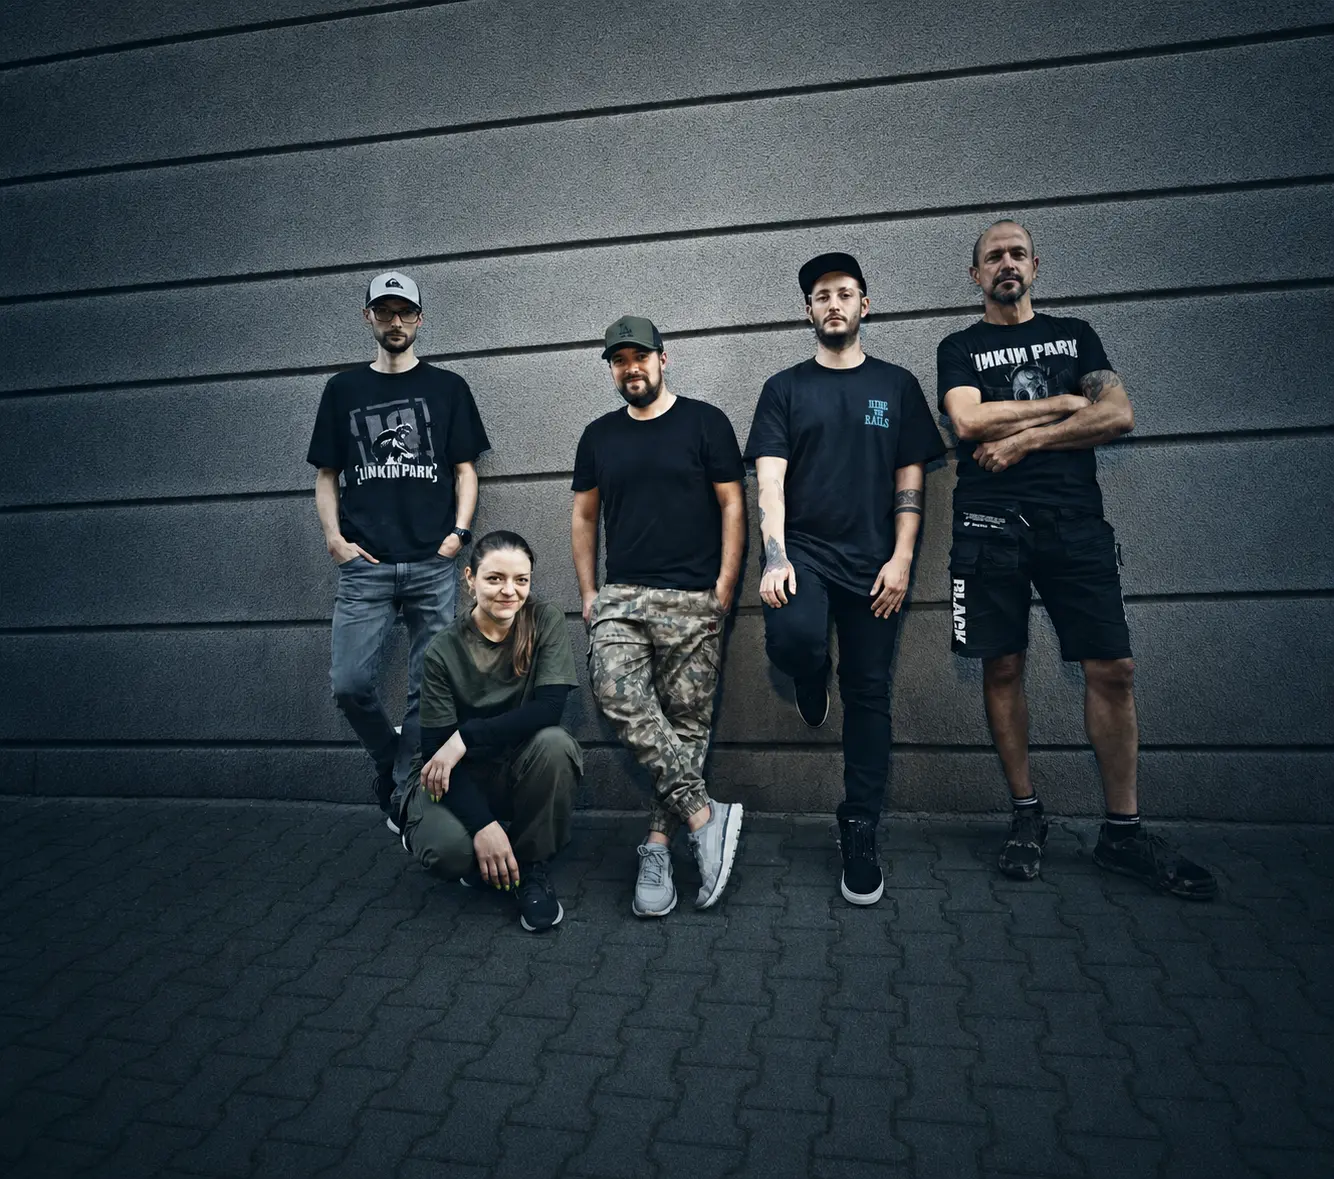
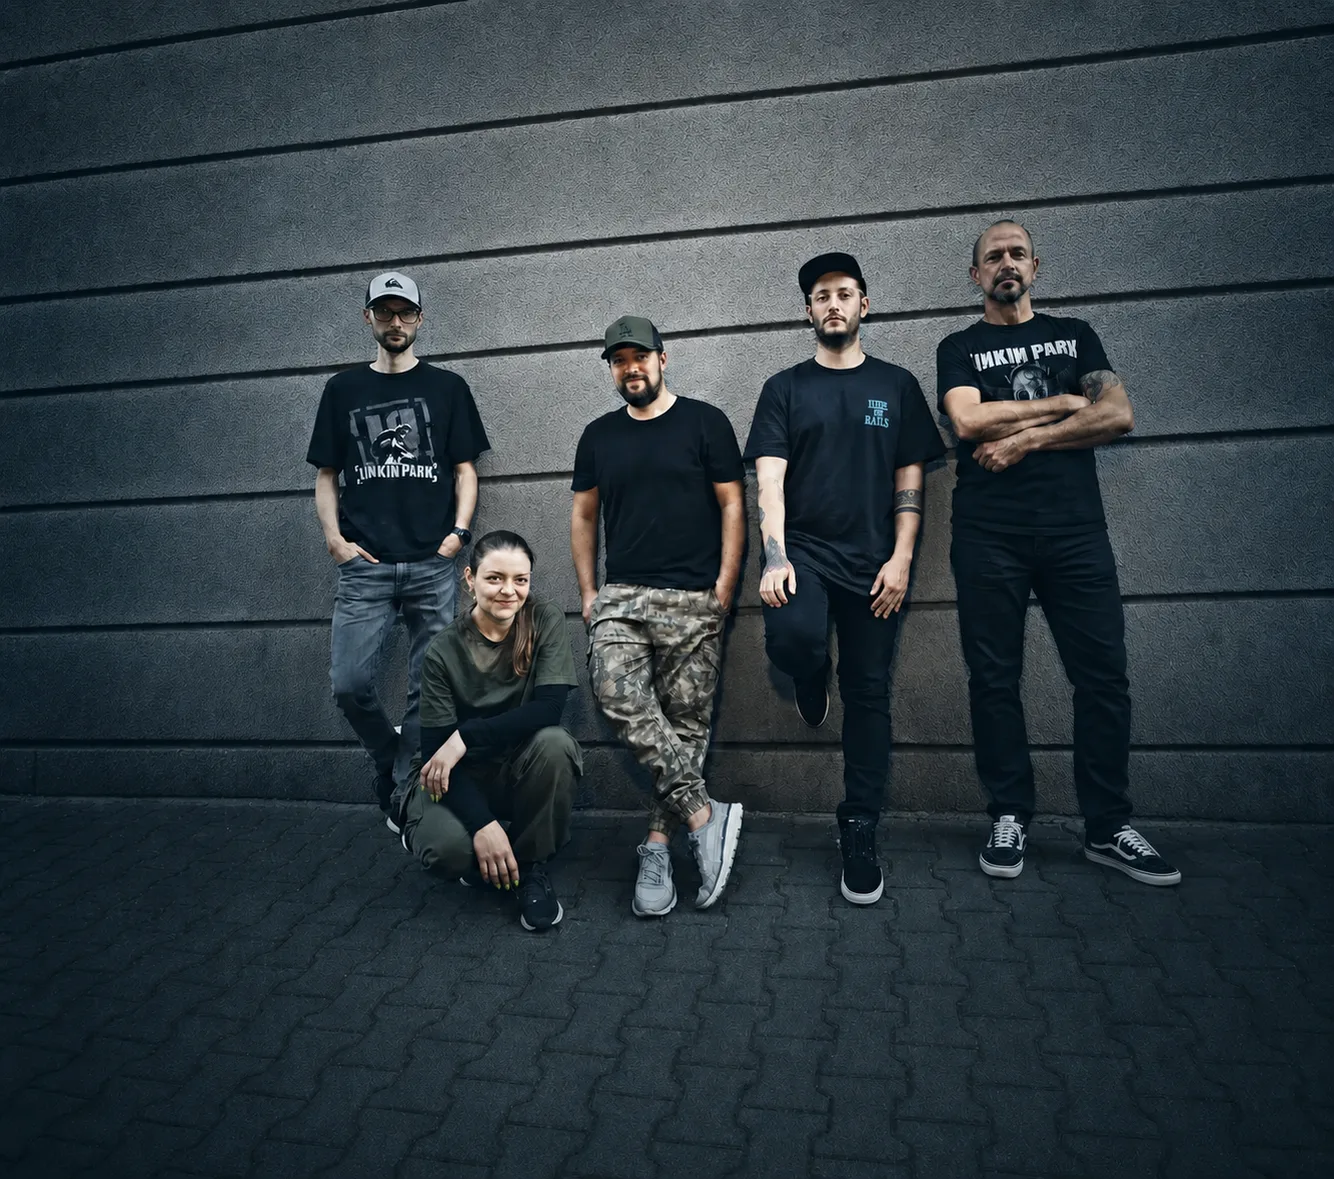
Hero: podmiana zdjęcia (Wojtek w spodniach zamiast krótkich) + cache-bust

diff --git a/index.html b/index.html
@@ -30,7 +30,7 @@
   <link rel="apple-touch-icon" sizes="180x180" href="/assets/img/favicon-180.png" />
   <link rel="preconnect" href="https://fonts.googleapis.com" />
   <link rel="preconnect" href="https://fonts.gstatic.com" crossorigin />
-  <link rel="preload" as="image" href="/assets/img/bg-hero-2.webp" type="image/webp" fetchpriority="high" />
+  <link rel="preload" as="image" href="/assets/img/bg-hero-2.webp?v=20260819" type="image/webp" fetchpriority="high" />
   <link href="https://fonts.googleapis.com/css2?family=Anton&family=Space+Mono:ital,wght@0,400;0,700;1,400&family=Teko:wght@300;400;600&display=swap" rel="stylesheet" />
   <link rel="stylesheet" href="/assets/css/style.css?v=20260817a" />
   <!-- LD:CONCERTS -->

diff --git a/assets/css/style.css b/assets/css/style.css
@@ -205,7 +205,7 @@ button { font: inherit; color: inherit; background: none; border: 0; cursor: poi
   inset: -20% 0;
   left: -8%;
   z-index: -3;
-  background-image: url("/assets/img/bg-hero-2.webp");
+  background-image: url("/assets/img/bg-hero-2.webp?v=20260819");
   background-size: cover;
   background-position: center -20px;
   background-repeat: no-repeat;
